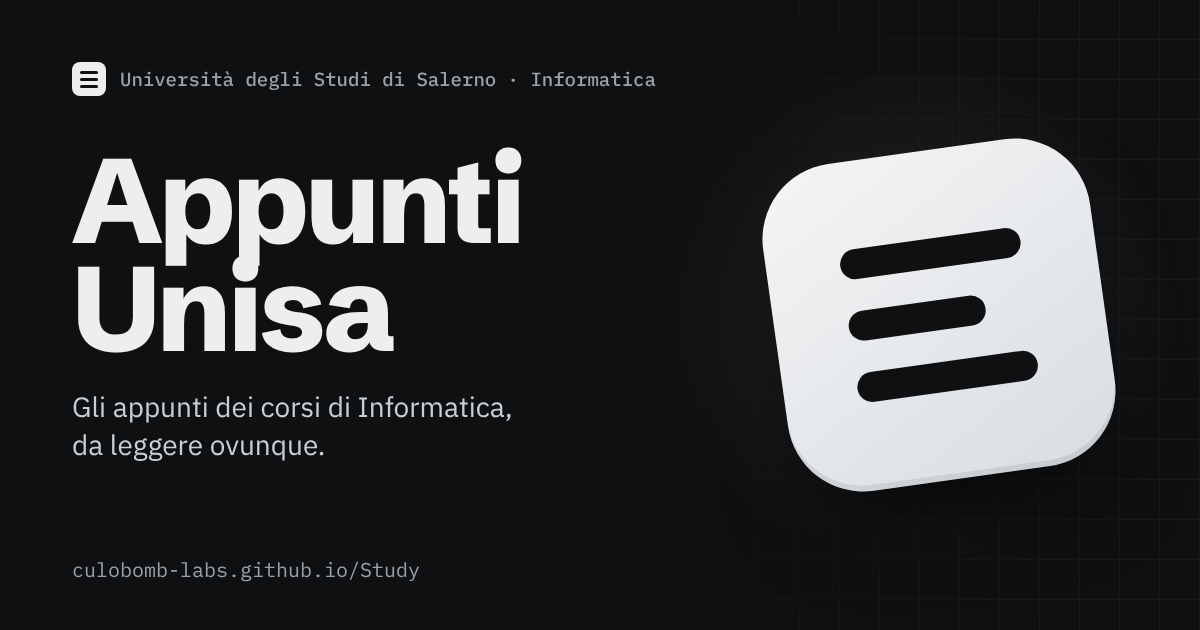
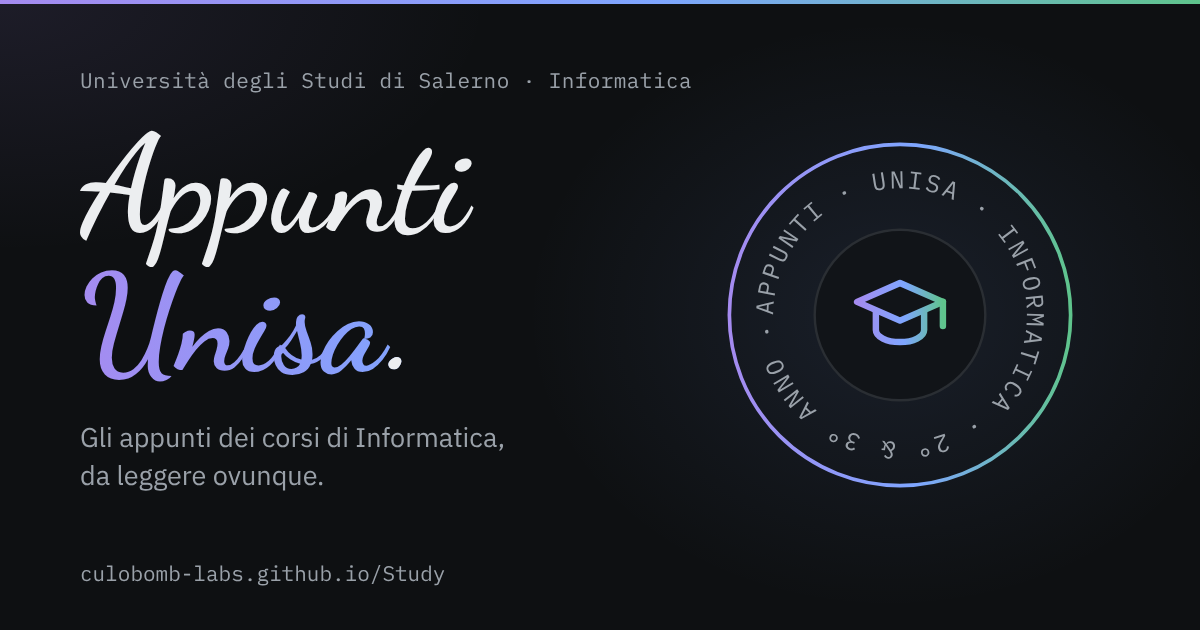
Anteprima dei link: nuovo og.png con il sigillo e il tocco [no news]
Claude-Session: https://claude.ai/code/session_011B48L4vqgenWLJ3vVG7H22

diff --git a/Unisa/index.html b/Unisa/index.html
@@ -16,7 +16,7 @@
 <meta property="og:title" content="Appunti Unisa">
 <meta property="og:description" content="Gli appunti dei corsi di Informatica all'Università di Salerno, da leggere ovunque.">
 <meta property="og:url" content="https://culobomb-labs.github.io/Study/">
-<meta property="og:image" content="https://culobomb-labs.github.io/Study/og.png?v=3">
+<meta property="og:image" content="https://culobomb-labs.github.io/Study/og.png?v=4">
 <meta property="og:image:width" content="1200">
 <meta property="og:image:height" content="630">
 <meta property="og:locale" content="it_IT">

diff --git a/.github/scripts/build_site.py b/.github/scripts/build_site.py
@@ -144,7 +144,7 @@ def head_meta(root, title, desc, rel):
             f'<meta property="og:title" content="{t}">\n'
             f'<meta property="og:description" content="{d}">\n'
             f'<meta property="og:url" content="{page_url}">\n'
-            f'<meta property="og:image" content="{SITE_URL}og.png?v=3">\n'
+            f'<meta property="og:image" content="{SITE_URL}og.png?v=4">\n'
             f'<meta property="og:locale" content="it_IT">\n'
             f'<meta name="twitter:card" content="summary_large_image">\n')
 
